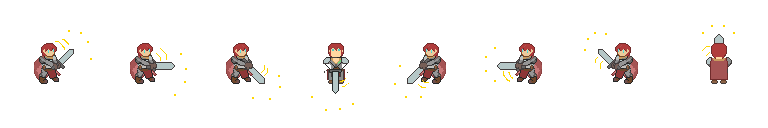
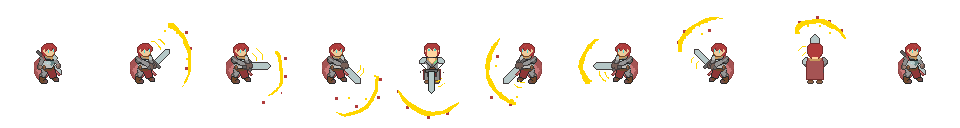
MC stop when attacking

diff --git a/src/scene/LV1.js b/src/scene/LV1.js
@@ -6,9 +6,12 @@ class LV1 extends Phaser.Scene{
     preload(){
 
         this.load.image('player', "./assets/Character.png");
-        this.load.image('fast', "./assets/A.png");
-        this.load.image('normal', "./assets/B.png");
-        this.load.image('bomb', "./assets/C.png");
+        this.load.image('bomb', "./assets/Bomb.png");
+        this.load.spritesheet('Candle', './assets/Candle.png', {frameWidth: 64, frameHeight: 64, startFrame: 0, endFrame: 3});
+        this.load.spritesheet('Explosion', './assets/Explosion.png', {frameWidth: 96, frameHeight: 96, startFrame:0, endFrame: 1});
+        this.load.spritesheet('spinATK', './assets/SpinATK.png', {frameWidth: 96, frameHeight: 128, startFrame: 0, endFrame: 9});
+        this.load.spritesheet('normal', './assets/GhostNorm.png', {frameWidth: 64, frameHeight: 64, startFrame: 0, endFrame: 1});
+        this.load.spritesheet('fast', './assets/GhostFast.png', {frameWidth: 64, frameHeight: 64, startFrame: 0, endFrame: 1});
 
         //tile map needs
         this.load.image('Dirt',   './assets/Dirt.png');
@@ -37,13 +40,8 @@ class LV1 extends Phaser.Scene{
             fixedWidth: 0
         }
 
-        enemyNorm = 2;
+        enemyNorm = 15;
         enemySum = enemyNorm + enemyFast + enemySlow;
-        
-        this.bombUI = this.add.text(centerX - 320, centerY - 370, 'Bomb: ' + bombNum, displayConfig).setOrigin(0.5);
-        this.enemyUI = this.add.text(centerX + 320, centerY - 370, 'Enemy: ' + enemySum, displayConfig).setOrigin(0.5);
-        this.display = this.add.text(centerX, centerY, '', displayConfig).setOrigin(0.5);
-
 
         //key inputs
         keyLeft   = this.input.keyboard.addKey(Phaser.Input.Keyboard.KeyCodes.LEFT);
@@ -53,7 +51,6 @@ class LV1 extends Phaser.Scene{
         keyF      = this.input.keyboard.addKey(Phaser.Input.Keyboard.KeyCodes.F);
         keyG      = this.input.keyboard.addKey(Phaser.Input.Keyboard.KeyCodes.G);
 
-        
         //game world tile
         Gmap = this.add.tilemap('Gmap');
 
@@ -71,7 +68,7 @@ class LV1 extends Phaser.Scene{
         obj2Lay  = Gmap.createStaticLayer('Object 2', [tree, rock, plants], 0, 0).setDepth(-1);
 
         //player sprite implement
-        this.player = new Player(this, spawnX, spawnY, 'player').setOrigin(0.5);
+        this.player = new Player(this, spawnX, spawnY, 'spinATK').setOrigin(0.5);
 
         //boom obj create
         this.boom0 = new Bomb(this, this.player.x, this.player.y, 'bomb').setOrigin(0.5);
@@ -95,60 +92,81 @@ class LV1 extends Phaser.Scene{
         this.boom9 = new Bomb(this, this.player.x, this.player.y, 'bomb').setOrigin(0.5);
         this.boom9.reset();
 
+        //animations
+        this.anims.create({
+            key: 'atk',
+            frames: this.anims.generateFrameNumbers('spinATK', { frames: [0, 1, 2, 3, 4, 5, 6, 7, 8, 9]}),
+            frameRate: 20,
+        });
+
+        this.anims.create({
+            key: 'explosion',
+            frames: this.anims.generateFrameNumbers('Explosion', { frames: [0, 1] }),
+            frameRate: 10,
+        });
+
+        this.anims.create({
+            key: 'candle',
+            frames: this.anims.generateFrameNumbers('Candle', { frames: [0, 1, 2, 3] }),
+            frameRate: 10,
+        });
+
+        this.anims.create({
+            key: 'normMove',
+            frames: this.anims.generateFrameNumbers('normal', { frames: [0, 1] }),
+            frameRate: 10,
+        });
+
+        this.anims.create({
+            key: 'fastMove',
+            frames: this.anims.generateFrameNumbers('fast', { frames: [0, 1] }),
+            frameRate: 10,
+        });
+    
         //enemy sprites
         this.enemy0 = new Normal(this, spawn1.x, spawn1.y, 'normal').setOrigin(0.5);
-        // rndPt = Phaser.Math.RND.pick([spawn1, spawn2, spawn3, spawn4, spawn5, spawn6, spawn7, spawn8]);
-        // while(rndPt.x == this.enemy0.x && rndPt.y == this.enemy0.y){
-        //     rndPt = Phaser.Math.RND.pick([spawn1, spawn2, spawn3, spawn4, spawn5, spawn6, spawn7, spawn8]);
-        // }
-        // console.log(spawn1.x);
-        // console.log(spawn1.y);
-        this.enemy1 = new Normal(this, spawn2.x, spawn2.y, 'normal').setOrigin(0.5);
-        // console.log(spawn2.x);
-        // console.log(spawn2.y);
-        this.enemy2 = new Normal(this, spawn3.x, spawn3.y, 'normal').setOrigin(0.5);
-        // console.log(spawn3.x);
-        // console.log(spawn3.y);
-        this.enemy3 = new Normal(this, spawn4.x, spawn4.y, 'normal').setOrigin(0.5);
-        // console.log(spawn4.x);
-        // console.log(spawn4.y);
-        this.enemy4 = new Normal(this, spawn5.x, spawn5.y, 'normal').setOrigin(0.5);
-        // console.log(spawn5.x);
-        // console.log(spawn5.y);
-        this.enemy5 = new Normal(this, spawn6.x, spawn6.y, 'normal').setOrigin(0.5);
-        // console.log(spawn6.x);
-        // console.log(spawn6.y);
-        this.enemy6 = new Normal(this, spawn7.x, spawn7.y, 'normal').setOrigin(0.5);
-        // console.log(spawn7.x);
-        // console.log(spawn7.y);
-        this.enemy7 = new Normal(this, spawn8.x, spawn8.y, 'normal').setOrigin(0.5);
-        // console.log(spawn8.x);
-        // console.log(spawn8.y);
+        
 
-        //main camera setting
-        this.cameras.main.startFollow(this.player);
-        this.cameras.main.setBounds(0, 0, 3200, 3200);
+        this.enemy1 = new Normal(this, spawn2.x, spawn2.y, 'normal').setOrigin(0.5);
+        
+
+        this.enemy2 = new Normal(this, spawn3.x, spawn3.y, 'normal').setOrigin(0.5);
+        
+
+        this.enemy3 = new Normal(this, spawn4.x, spawn4.y, 'normal').setOrigin(0.5);
+        
+
+        this.enemy4 = new Normal(this, spawn5.x, spawn5.y, 'normal').setOrigin(0.5);
+        
+
+        this.enemy5 = new Normal(this, spawn6.x, spawn6.y, 'normal').setOrigin(0.5);
+        
+
+        this.enemy6 = new Normal(this, spawn7.x, spawn7.y, 'normal').setOrigin(0.5);
+        
+
+        this.enemy7 = new Normal(this, spawn8.x, spawn8.y, 'normal').setOrigin(0.5);
+        
 
 
 
         //physics implement
         this.physics.add.existing(this.player);
 
-        //enemy group
-        this.enemies = this.physics.add.group({ classType: Normal,});
-
-        //bomb physics
-        this.bombs = this.physics.add.group( {classType: Bomb} );
-
-        //collider
-        this.physics.add.collider(this.enemies, this.bombs, function(enemy, bomb){
-            enemy.death();
-            bomb.reset();
-        })
+        //main camera setting
+        this.cameras.main.startFollow(this.player);
+        this.cameras.main.setBounds(0, 0, 3200, 3200);
 
         //custom player moving bounds for later tile implement
         cstBounds = new Phaser.Geom.Rectangle(0, 0, 3200, 3200);
         this.player.body.setBoundsRectangle(cstBounds);
+
+
+
+        //UI display
+        this.bombUI  = this.add.text(centerX - 320, centerY - 370, 'Bomb: ' + bombNum, displayConfig).setOrigin(0.5);
+        this.enemyUI = this.add.text(centerX + 320, centerY - 370, 'Enemy: ' + enemySum, displayConfig).setOrigin(0.5);
+        this.display = this.add.text(centerX, centerY, '', displayConfig).setOrigin(0.5);
 
 
     }
@@ -161,9 +179,33 @@ class LV1 extends Phaser.Scene{
         this.enemyUI.setScrollFactor(0);
         this.display.setScrollFactor(0);
 
+        this.enemy0.play('normMove');
+        this.enemy1.play('normMove');
+        this.enemy2.play('normMove');
+        this.enemy3.play('normMove');
+        this.enemy4.play('normMove');
+        this.enemy5.play('normMove');
+        this.enemy6.play('normMove');
+        this.enemy7.play('normMove');
+        
+        
+
         if(gameOver == false && nextLv == false){
-                //player update
+
+            if(keyF.isDown && this.player.atking == false){
+                this.player.body.setVelocityX(0);
+                this.player.body.setVelocityY(0);
+                this.player.atking = true;
+                this.player.play('atk');
+                this.player.on('animationcomplete', () => {
+                    this.player.setFrame[0];
+                    this.player.atking = false;
+                });
+            }
+
+             //player update
             this.player.update();
+
             if(enemySum > 0)
             {
                 if(!this.enemy0.dead){

diff --git a/src/prefab/Player.js b/src/prefab/Player.js
@@ -6,35 +6,38 @@ class Player extends Phaser.Physics.Arcade.Sprite{
         //add to existing, displayList, updateList
         scene.add.existing(this);
 
+        this.atking = false;
+
     }
 
     update(){
 
         this.body.collideWorldBounds = true;
 
-        //player movement setting
-        if(keyLeft.isDown){
-            this.setFlipX(false);
-            this.body.setVelocityX(-500);
-        }
-        else if(keyRight.isDown){
-            this.setFlipX(true);
-            this.body.setVelocityX(500);
-        }
-        else{
-            this.body.setVelocityX(0);
-        }
+        if(this.atking == false){
+            //player movement setting
+            if(keyLeft.isDown){
+                this.setFlipX(true);
+                this.body.setVelocityX(-500);
+            }
+            else if(keyRight.isDown){
+                this.setFlipX(false);
+                this.body.setVelocityX(500);
+            }
+            else{
+                this.body.setVelocityX(0);
+            }
 
-        if(keyUp.isDown){
-            this.body.setVelocityY(-500);
+            if(keyUp.isDown){
+                this.body.setVelocityY(-500);
+            }
+            else if(keyDown.isDown){
+                this.body.setVelocityY(500);
+            }
+            else{
+                this.body.setVelocityY(0);
+            }
         }
-        else if(keyDown.isDown){
-            this.body.setVelocityY(500);
-        }
-        else{
-            this.body.setVelocityY(0);
-        }
-
         
     }
 

diff --git a/src/prefab/Enemy_Normal.js b/src/prefab/Enemy_Normal.js
@@ -8,6 +8,8 @@ class Normal extends Phaser.Physics.Arcade.Sprite{
         this.scene.physics.add.existing(this);
 
         this.hp = 2;
+        
+        this.isHurt = false;
 
         this.dead = false;
 
@@ -43,6 +45,7 @@ class Normal extends Phaser.Physics.Arcade.Sprite{
     //dmg function for get hit
     getHit(){
         this.hp -= 1;
+        this.isHurt = true;
         if(this.hp == 0){
             this.death();
         }
